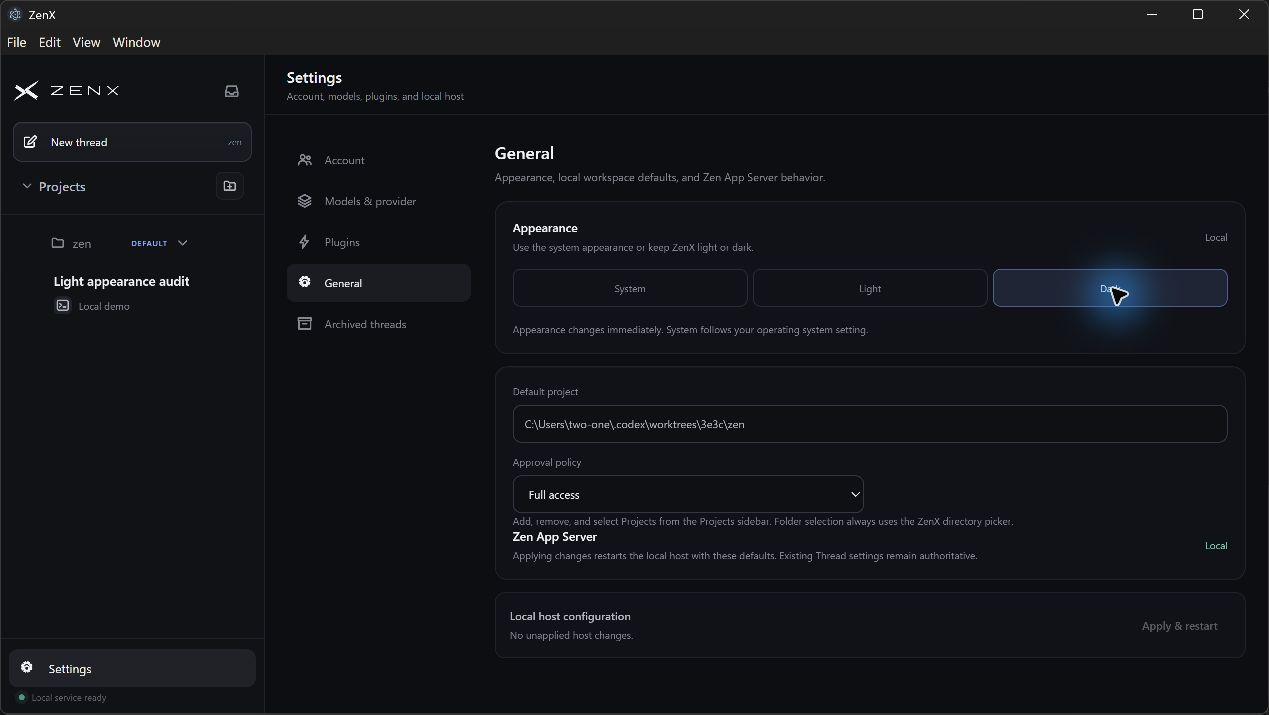
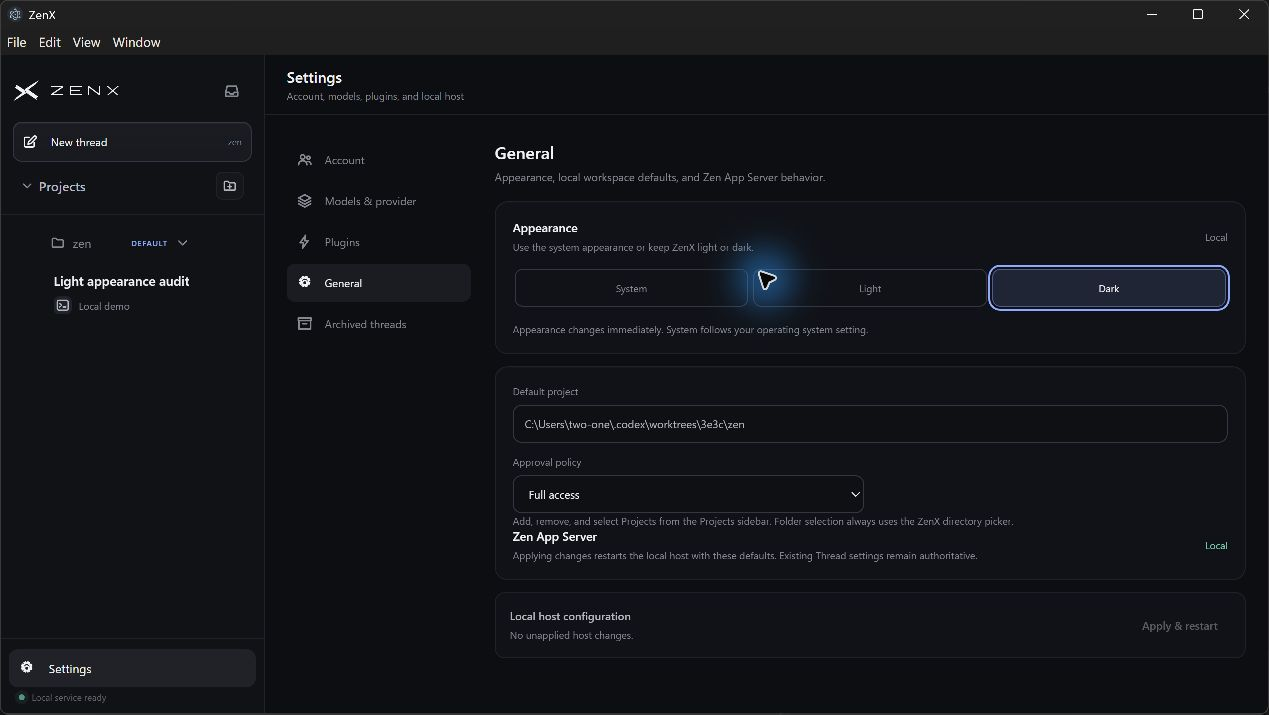
fix(zenx): meet light appearance accessibility

Changed region(s): [[0.7683, 0.3385, 0.9835, 0.4615], [0.5532, 0.3385, 0.6454, 0.4615], [0.4917, 0.4, 0.5225, 0.4308]]

diff --git a/apps/zenx/test/appearance.test.ts b/apps/zenx/test/appearance.test.ts
@@ -1,4 +1,5 @@
 import assert from "node:assert/strict";
+import { readFile } from "node:fs/promises";
 import test from "node:test";
 
 import { JSDOM } from "jsdom";
@@ -64,6 +65,51 @@ test("persists switches and follows live system changes only in System", () => {
   dom.window.close();
 });
 
+test("light semantic text, primary actions, and control boundaries meet contrast targets", async () => {
+  const css = await readFile(
+    new URL("../src/renderer/src/styles.css", import.meta.url),
+    "utf8",
+  );
+  const lightTokens = css.match(
+    /:root\[data-appearance="light"\]\s*\{([\s\S]*?)\n\}/u,
+  )?.[1];
+  assert.ok(lightTokens);
+  const token = (name: string) => {
+    const value = lightTokens.match(
+      new RegExp(`--${name}:\\s*(#[0-9a-f]{6})`, "iu"),
+    )?.[1];
+    assert.ok(value, `missing light --${name}`);
+    return value;
+  };
+
+  for (const surface of ["surface-inset", "sidebar", "main", "surface"]) {
+    assert.ok(
+      contrastRatio(token("text-3"), token(surface)) >= 4.5,
+      `--text-3 must meet 4.5:1 against --${surface}`,
+    );
+  }
+  assert.ok(
+    contrastRatio(token("text-on-accent"), token("accent")) >= 4.5,
+    "primary action text must meet 4.5:1",
+  );
+  assert.ok(
+    contrastRatio(token("border-control"), token("surface-inset")) >= 3,
+    "control boundaries must meet 3:1",
+  );
+  assert.ok(
+    contrastRatio(token("border-accent"), token("surface-inset")) >= 3,
+    "selected control boundaries must meet 3:1",
+  );
+  assert.match(
+    css,
+    /\.primary-button\s*\{[^}]*color:\s*var\(--text-on-accent\)/u,
+  );
+  assert.match(
+    css,
+    /\.appearance-options label > span\s*\{[^}]*border:\s*1px solid var\(--border-control\)/u,
+  );
+});
+
 class FakeSystemPreference {
   matches: boolean;
   readonly #listeners = new Set<() => void>();
@@ -93,4 +139,26 @@ function storageWith(initial?: string): Pick<Storage, "getItem" | "setItem"> {
     getItem: (key) => values.get(key) ?? null,
     setItem: (key, value) => void values.set(key, value),
   };
+}
+
+function contrastRatio(foreground: string, background: string): number {
+  const foregroundLuminance = relativeLuminance(foreground);
+  const backgroundLuminance = relativeLuminance(background);
+  return (
+    (Math.max(foregroundLuminance, backgroundLuminance) + 0.05) /
+    (Math.min(foregroundLuminance, backgroundLuminance) + 0.05)
+  );
+}
+
+function relativeLuminance(hex: string): number {
+  const channels = [1, 3, 5].map((offset) =>
+    Number.parseInt(hex.slice(offset, offset + 2), 16),
+  );
+  const [red = 0, green = 0, blue = 0] = channels.map((value) => {
+    const channel = value / 255;
+    return channel <= 0.04045
+      ? channel / 12.92
+      : ((channel + 0.055) / 1.055) ** 2.4;
+  });
+  return 0.2126 * red + 0.7152 * green + 0.0722 * blue;
 }

diff --git a/apps/zenx/test/settings-interaction.test.ts b/apps/zenx/test/settings-interaction.test.ts
@@ -11,6 +11,7 @@ import type {
   PublicHostSettings,
   ZenXHostProfile,
 } from "../src/main/host-profile.js";
+import type { AppearancePreference } from "../src/renderer/src/appearance.js";
 import type { SettingsTab } from "../src/renderer/src/SettingsView.js";
 
 const { act, createElement, useState } = React;
@@ -106,13 +107,25 @@ test("General switches Appearance immediately without restarting the host", asyn
     return { ...settings, profile };
   });
   try {
-    await waitFor(() => exactButton("Light"));
-    const light = exactButton("Light");
+    await waitFor(() => appearanceRadio("light"));
+    const system = appearanceRadio("system");
+    const light = appearanceRadio("light");
+    const dark = appearanceRadio("dark");
+    assert.ok(system);
     assert.ok(light);
+    assert.ok(dark);
+    assert.equal(system.type, "radio");
+    assert.equal(light.type, "radio");
+    assert.equal(dark.type, "radio");
+    assert.equal(system.name, "appearance");
+    assert.equal(light.name, system.name);
+    assert.equal(dark.name, system.name);
     await act(async () => light.click());
     assert.equal(document.documentElement.dataset.appearance, "light");
     assert.equal(localStorage.getItem("zenx.appearance"), "light");
-    assert.equal(light.getAttribute("aria-checked"), "true");
+    assert.equal(light.checked, true);
+    assert.equal(system.checked, false);
+    assert.equal(dark.checked, false);
     assert.equal(saved.length, 0);
     assert.equal(exactButton("Apply & restart")?.disabled, true);
   } finally {
@@ -220,6 +233,14 @@ function exactButton(label: string): HTMLButtonElement | undefined {
   return [...document.querySelectorAll<HTMLButtonElement>("button")].find(
     (button) => button.textContent?.trim() === label,
   );
+}
+
+function appearanceRadio(
+  value: AppearancePreference,
+): HTMLInputElement | undefined {
+  return Array.from(
+    document.querySelectorAll<HTMLInputElement>('input[name="appearance"]'),
+  ).find((input) => input.value === value);
 }
 
 async function waitFor<T>(read: () => T | null | undefined): Promise<T> {

diff --git a/apps/zenx/src/renderer/src/styles.css b/apps/zenx/src/renderer/src/styles.css
@@ -73,7 +73,7 @@
   --border-soft: #d9dde7;
   --text: #1c2029;
   --text-2: #4d5361;
-  --text-3: #6b7282;
+  --text-3: #626979;
   --accent: #526fb9;
   --accent-2: #7658ae;
   --accent-soft: rgb(82 111 185 / 13%);
@@ -89,10 +89,10 @@
   --surface-overlay: #fbfcff;
   --surface-danger: #fff2f1;
   --surface-warning: #fff8e9;
-  --border-control: #c4cad7;
-  --border-strong: #adb5c5;
-  --border-focus: #7d8fb9;
-  --border-accent: #8295c8;
+  --border-control: #7f899f;
+  --border-strong: #737e95;
+  --border-focus: #657bb0;
+  --border-accent: #526fb9;
   --text-disabled: #9aa1af;
   --text-accent: #405b9f;
   --text-violet: #69469d;
@@ -1690,7 +1690,7 @@ a:focus-visible {
 .primary-button {
   border-color: var(--accent);
   background: var(--accent);
-  color: #111520;
+  color: var(--text-on-accent);
 }
 .danger-button {
   border-color: color-mix(in srgb, var(--danger) 55%, var(--border));
@@ -2176,20 +2176,40 @@ a:focus-visible {
   gap: 5px;
   margin-bottom: 15px;
 }
+.appearance-options {
+  padding: 0;
+  border: 0;
+}
 .provider-tabs button,
-.appearance-options button {
+.appearance-options label > span {
   min-height: 38px;
-  border: 1px solid var(--border);
+  display: grid;
+  place-items: center;
+  border: 1px solid var(--border-control);
   border-radius: 8px;
   background: var(--surface-inset);
   color: var(--text-3);
   font-size: 10px;
+  cursor: pointer;
+}
+.appearance-options label {
+  position: relative;
+}
+.appearance-options input {
+  position: absolute;
+  width: 1px;
+  height: 1px;
+  opacity: 0;
 }
 .provider-tabs button[aria-selected="true"],
-.appearance-options button[aria-checked="true"] {
+.appearance-options input:checked + span {
   border-color: var(--border-accent);
   color: var(--text);
   background: var(--accent-soft);
+}
+.appearance-options input:focus-visible + span {
+  outline: 2px solid var(--accent);
+  outline-offset: 2px;
 }
 .settings-note {
   color: var(--text-3);

diff --git a/apps/zenx/src/renderer/src/SettingsView.tsx b/apps/zenx/src/renderer/src/SettingsView.tsx
@@ -700,26 +700,24 @@ function GeneralPanel({
           </div>
           <span className="status-muted">Local</span>
         </div>
-        <div
-          className="appearance-options"
-          role="radiogroup"
-          aria-label="Appearance"
-        >
+        <fieldset className="appearance-options">
+          <legend className="sr-only">Appearance</legend>
           {(["system", "light", "dark"] as const).map((option) => (
-            <button
-              key={option}
-              type="button"
-              role="radio"
-              aria-checked={appearance === option}
-              onClick={() => {
-                appearanceController.setPreference(option);
-                setAppearance(option);
-              }}
-            >
-              {option[0]?.toUpperCase() + option.slice(1)}
-            </button>
+            <label key={option}>
+              <input
+                type="radio"
+                name="appearance"
+                value={option}
+                checked={appearance === option}
+                onChange={() => {
+                  appearanceController.setPreference(option);
+                  setAppearance(option);
+                }}
+              />
+              <span>{option[0]?.toUpperCase() + option.slice(1)}</span>
+            </label>
           ))}
-        </div>
+        </fieldset>
         <p className="settings-note">
           Appearance changes immediately. System follows your operating system
           setting.
